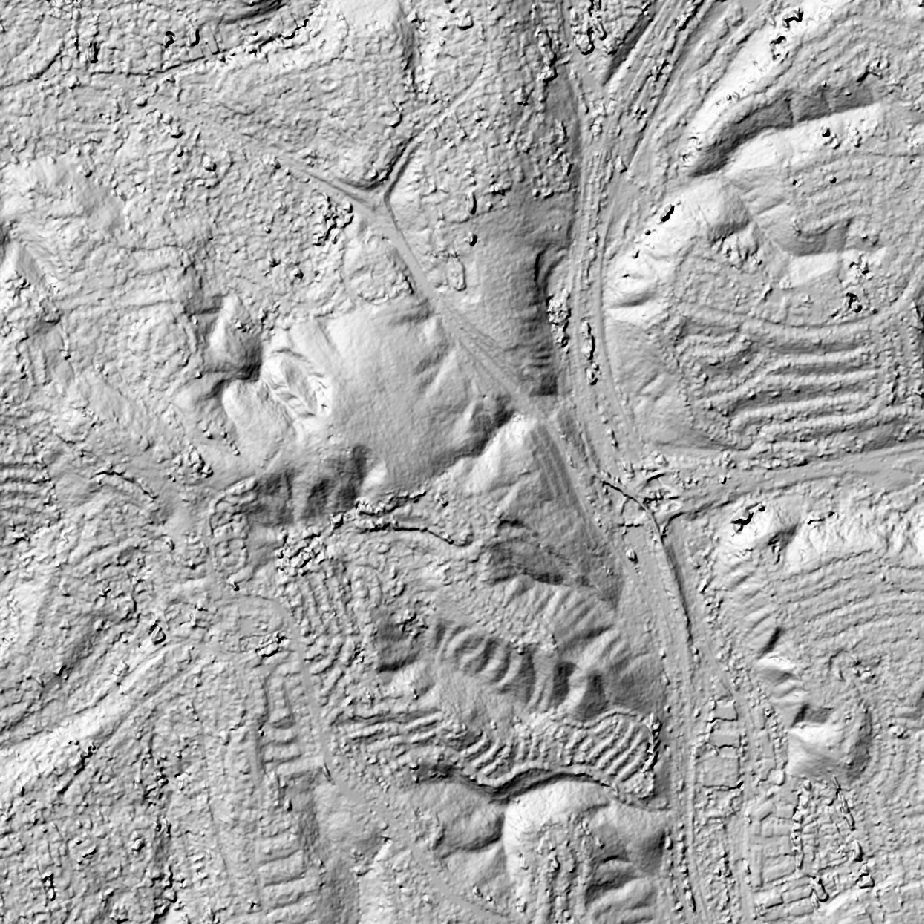
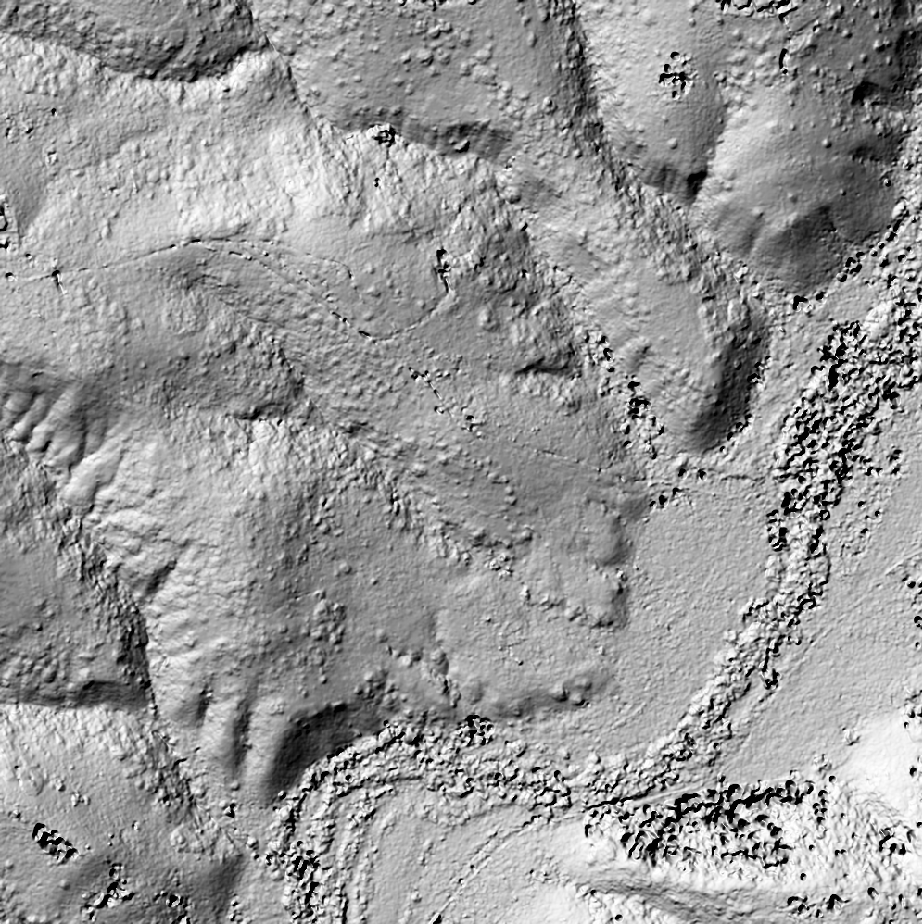
Notebook text pass, CARS redone on the square, sized screenshots
The notebooks' text edited by hand: shorter openings, "Orthorectify" for
"Drape", the report link as a ### heading without the download sentence,
the zip contents as a list, the Run All screenshot inside the opening
note, the clipboard screenshot as a sized <img> tag. The scratchpad
builders that wrote the WorldView notebooks are superseded by these
hand edits. execute_tutorials.py turns a sized <img> tag back into a
markdown image in the executed copies, since Sphinx copies only the
images it sees in markdown (checked with a local docs build).

The CARS comparison is redone on the tutorial's square at 1 m:
run_comparisons.sh now cuts the square plus 250 m out of each scene
with cam2rpc at the images' own resolution (the tutorial no longer
crops), setsm_inputs.py's averaging factor is 1, CARS writes 1 m. CARS
agrees with ASP to 0.2 m NMAD with no height offset, since neither
adjusts the cameras now. The SETSM page and figure follow separately:
its first run at 1 m produced noise and is being looked at.

Claude-Session: https://claude.ai/code/session_011KC3JwzmbqUXJMF6UJmWQX

diff --git a/scripts/docs_figures/setsm_inputs.py b/scripts/docs_figures/setsm_inputs.py
@@ -1,4 +1,4 @@
-"""Make a folder SETSM can run on from Tutorial 2's cropped images.
+"""Make a folder SETSM can run on from the comparison's cropped images.
 
     python scripts/docs_figures/setsm_inputs.py <wv run> <output folder>
 
@@ -12,7 +12,8 @@ takes the image corners from the <BAND_P> block to pick the UTM zone (without
 them it chose zone 31 south), the pixel size and satellite ID from <IMAGE>,
 and the RPC error terms, which cam2rpc writes as 0. This adds those blocks:
 the corners from the crop's own RPC, the pixel sizes from the vendor's XML
-times the crop's averaging factor, and the rest copied from the vendor's XML.
+(times FACTOR, the crop's averaging factor, 1 now), and the rest copied from
+the vendor's XML.
 """
 import re
 import shutil
@@ -24,7 +25,7 @@ from osgeo import gdal
 gdal.UseExceptions()
 
 SCENES = ["104001000496A100", "10400100071D8800"]
-FACTOR = 4   # the crops average FACTOR x FACTOR pixels (Tutorial 2's FACTOR)
+FACTOR = 1   # the crops are at the images' own resolution (cam2rpc in run_comparisons.sh)
 IMAGE_TAGS = ["SATID", "FIRSTLINETIME", "ABSCALFACTOR", "EFFECTIVEBANDWIDTH", "TDILEVEL",
               "MEANPRODUCTGSD", "MEANPRODUCTROWGSD", "MEANPRODUCTCOLGSD",
               "MEANCOLLECTEDGSD", "MEANCOLLECTEDROWGSD", "MEANCOLLECTEDCOLGSD",

diff --git a/scripts/execute_tutorials.py b/scripts/execute_tutorials.py
@@ -13,6 +13,7 @@ a conda env, the env's bin folder goes before ASP's (both have asp_report)
 and PROJ_DATA and GDAL_DATA point at the env's share/ folders. About 25
 minutes on an 8-core laptop for all three.
 """
+import re
 import shutil
 import sys
 import time
@@ -38,8 +39,11 @@ def main():
         # Screenshots in markdown cells are referenced relative to notebooks/
         # (../docs/start/figures/); from docs/tutorials/ the same files are at
         # ../start/figures/.
+        # A sized <img> tag (width for VS Code) becomes a markdown image: Sphinx
+        # copies only the images it sees in markdown.
         for cell in nb.cells:
             if cell.cell_type == "markdown":
+                cell.source = re.sub(r'<img src="([^"]+)" alt="([^"]*)"[^>]*>', r"![\2](\1)", cell.source)
                 cell.source = cell.source.replace("../docs/start/figures/", "../start/figures/")
         nbformat.write(nb, out / f"{name}.ipynb")
         print(f"{name}: {(time.time() - start) / 60:.1f} min, {(out / f'{name}.ipynb').stat().st_size / 1e6:.1f} MB")

diff --git a/scripts/docs_figures/make_figures.py b/scripts/docs_figures/make_figures.py
@@ -320,7 +320,7 @@ COMPARISON_DEMS = {
 
 
 def comparison_hillshades(wv, extra, out):
-    """A bare hillshade of each tool's DEM over Tutorial 2's window, on Tutorial 2's 2.4 m grid."""
+    """A bare hillshade of each tool's DEM over Tutorial 2's square, on Tutorial 2's 1 m grid."""
     like = wv / COMPARISON_DEMS["asp"]
     for tool, rel in COMPARISON_DEMS.items():
         dem = like if tool == "asp" else extra / rel

diff --git a/docs/comparisons/cars.md b/docs/comparisons/cars.md
@@ -1,4 +1,4 @@
-# CARS — WorldView-3, Mount Soledad
+# CARS — WorldView-3, Los Peñasquitos Canyon
 
 Compare DEMs produced by ASP and CARS on the same WorldView-3 stereo pair:
 
@@ -17,18 +17,18 @@ CARS is an open-source Python tool developed by CNES (French Space Agency) for p
 
 ## Source Data
 
-The same WorldView-3 pair as the [SETSM comparison](setsm) and [Tutorial 2](../tutorials/02_worldview_ucsd.ipynb), as the tutorial prepares it: a 3 × 3 km window around the summit of Mount Soledad, cut from each image with `cam2rpc` and averaged to 1.2 m pixels (the native 0.31 m pixels, 4 × 4 at a time). Both images come from the IARPA CORE3D SpaceNet UCSD dataset.
+The same WorldView-3 pair as the [SETSM comparison](setsm) and [Tutorial 2](../tutorials/02_worldview_ucsd.ipynb), over the tutorial's 1 km square at the west end of Los Peñasquitos Canyon. The tutorial orthorectifies the square straight out of the full scenes, which CARS and SETSM don't do, so `scripts/docs_figures/run_comparisons.sh` first cuts the square plus a 250 m margin out of each scene with `cam2rpc`, at the images' own 0.31 m pixels, with an RPC camera fitted to each crop. Both images come from the IARPA CORE3D SpaceNet UCSD dataset.
 
 | Catalog ID | Date | Off-nadir | Crop size |
 |---|---|---|---|
-| 104001000496A100 | 2014-11-09 | 1.1° | 2738 × 2805 px |
-| 10400100071D8800 | 2015-01-24 | 16.3° | 2623 × 2645 px |
+| 104001000496A100 | 2014-11-09 | 1.1° | 4764 × 4888 px |
+| 10400100071D8800 | 2015-01-24 | 16.3° | 4552 × 4681 px |
 
-The pair's convergence angle is 16.8°. Each tool gets the same two crops and their RPC cameras, and writes a 2.4 m DEM, the tutorial's output grid. ASP's DEM is the tutorial's own, made from the orthorectified crops after bundle adjustment, as the notebook describes.
+The pair's convergence angle is 16.8°. Each tool gets the same two crops and their RPC cameras, and writes a 1 m DEM, the tutorial's output grid. ASP's DEM is the tutorial's own, made from the orthorectified square with the vendor cameras as they are, as the notebook describes.
 
 ## Inputs
 
-CARS reads the RPC from the crops' GeoTIFF tags (through [Shareloc](https://github.com/CNES/shareloc)), so the tutorial's crops go in as they are, with no camera file. The crops already cover the window, so the config gives no region of interest. (CARS 1.3.0 fails with `unsupported operand type(s) for /: 'list' and 'float'` when `roi` is set together with a single `resolution`; it keeps the resolution as a pair internally.)
+CARS reads the RPC from the crops' GeoTIFF tags (through [Shareloc](https://github.com/CNES/shareloc)), so the crops go in as they are, with no camera file. The crops already cover the square, so the config gives no region of interest. (CARS 1.3.0 fails with `unsupported operand type(s) for /: 'list' and 'float'` when `roi` is set together with a single `resolution`; it keeps the resolution as a pair internally.)
 
 ## Running CARS via Docker
 
@@ -54,7 +54,7 @@ input:
 
 output:
   directory: /output/results
-  resolution: 2.4
+  resolution: 1
   epsg: 32611
   geoid: false
 
@@ -65,7 +65,7 @@ orchestrator:
 ```
 
 Key parameters:
-- `output.resolution: 2.4` — the tutorial's DEM grid
+- `output.resolution: 1` — the tutorial's DEM grid
 - `output.epsg: 32611` — UTM 11N, the tutorial's CRS
 - `output.geoid: false` — heights above the ellipsoid, as ASP writes them (CARS's default is the EGM96 geoid)
 - `orchestrator.nb_workers: 4`, `max_ram_per_worker: 2000` — four workers of 2 GB, for a 16 GB laptop whose Docker VM has 12 GB
@@ -87,28 +87,28 @@ Expected outputs in `results/`:
 
 | Metric | Value |
 |---|---|
-| Computation time | 7 min 38 s (Apple M-series laptop, amd64 emulation, 6 CPUs) |
+| Computation time | 17 min 6 s (Apple M-series laptop, amd64 emulation, 6 CPUs) |
 | Docker `--memory` limit | 11 GB |
-| Output DSM | 1410 × 1447 px (the crops' overlap), 2.4 m, EPSG:32611 |
+| Output DSM | 1471 × 1511 px (the crops' overlap), 1 m, EPSG:32611 |
 | Convergence angle | 16.8° |
 
-Two of the 68 rasterization tiles failed on CARS's second pass over them (`ERROR Pipeline will pursue without failed tiles` in the log); the DSM over the 3 km window is complete. The DSM's extreme values (down to −377 m) are blunders at the edge of the overlap, outside the window.
+Two tiles failed on CARS's second pass over them (`ERROR Pipeline will pursue without failed tiles` in the log); the DSM over the square is complete. The DSM's extreme values (down to −146 m) are blunders at the edge of the overlap, outside the square.
 
 ## Hillshade Comparison
 
-CARS resolves the same hills, canyons, streets and blocks of houses as ASP, with sharper building edges, and fills the window with no voids where ASP has a few (0.8%, mostly at the freeway interchange and along building edges). Its surface is noisier in open ground, which shows as speckle in the hillshade, with some pits and mounds along building edges. Like SETSM, CARS uses the vendor RPCs as they are, so its DSM sits 9.5 m below ASP's (median difference); Tutorial 2's bundle adjustment ties the cameras to COP30 heights. Apart from that offset the two agree to 1.1 m (NMAD).
+CARS resolves the same spurs, gullies and trails as ASP, and fills the square with no voids where ASP has a few (0.9%, in the trees along the creek and in deep shadows); in those trees CARS's surface is lumpier. Elsewhere its surface is a little noisier pixel to pixel, which shows as a fine speckle in the hillshade. Both tools use the vendor RPCs as they are, so the two DEMs sit at the same height (median difference 0.0 m) and agree to 0.2 m (NMAD) over the square; both sit about 10 m below ICESat-2, which Tutorial 2's report measures and removes.
 
 ::::{grid} 2
 :::{grid-item}
-![ASP 2.4 m](figures/soledad-asp-hillshade.png)
-**ASP 2.4 m DEM**
+![ASP 1 m](figures/soledad-asp-hillshade.png)
+**ASP 1 m DEM**
 <div class="fullres-btns">
   <a class="fullres-btn" href="../_images/soledad-asp-hillshade.png" target="_blank" rel="noopener noreferrer">Open at full resolution ↗</a>
 </div>
 :::
 :::{grid-item}
-![CARS 2.4 m](figures/soledad-cars-hillshade.png)
-**CARS 2.4 m DSM**
+![CARS 1 m](figures/soledad-cars-hillshade.png)
+**CARS 1 m DSM**
 <div class="fullres-btns">
   <a class="fullres-btn" href="../_images/soledad-cars-hillshade.png" target="_blank" rel="noopener noreferrer">Open at full resolution ↗</a>
 </div>
@@ -116,7 +116,7 @@ CARS resolves the same hills, canyons, streets and blocks of houses as ASP, with
 ::::
 
 ```{raw} html
-<a href="https://maps.google.com/?ll=32.8396,-117.2413&z=15&t=k" target="_blank" rel="noopener noreferrer">View the comparison area in Google Maps</a>
+<a href="https://maps.google.com/?ll=32.918,-117.204&z=15&t=k" target="_blank" rel="noopener noreferrer">View the comparison area in Google Maps</a>
 ```
 
 ## References

diff --git a/ARCHITECTURE.md b/ARCHITECTURE.md
@@ -103,7 +103,7 @@ Glossary linking is in [ADR-0019](architecture/0019-glossary-term-hover-previews
 
 ### `docs/comparisons/` section
 
-See [ADR-0009](architecture/0009-qualitative-tool-comparisons.md). A top-level section running Tutorial 2's WorldView-3 pair, as the tutorial crops it (Mount Soledad, 1.2 m crops, 2.4 m DEMs), through ASP, CARS (CNES), and SETSM (OSU/PGC), side by side and qualitative (no quantitative ranking). Remade on 2026-10-29 from the old `21deg_12d` pair with `scripts/docs_figures/run_comparisons.sh`. Unlike the concept pages these ship fully-fleshed, not WIP: `index.md` carries an overview, a scope-disclaimer note, a "Key Differences" table, and a hidden toctree over `setsm`, `cars`; `cars.md` / `setsm.md` carry full Docker recipes, config, run-metrics tables, and 2-up hillshade grids (`figures/soledad-*-hillshade.png`, committed). `docs/index.md` adds a landing card and a "Comparisons" toctree section; `docs/conf.py` needs no change (`nb_execution_mode = "off"` is global).
+See [ADR-0009](architecture/0009-qualitative-tool-comparisons.md). A top-level section running Tutorial 2's WorldView-3 pair, over the tutorial's square (Los Peñasquitos Canyon; `cam2rpc` crops at the images' own resolution, since the tutorial itself no longer crops; 1 m DEMs), through ASP, CARS (CNES), and SETSM (OSU/PGC), side by side and qualitative (no quantitative ranking). Remade on 2026-10-30 on the square with `scripts/docs_figures/run_comparisons.sh`. Unlike the concept pages these ship fully-fleshed, not WIP: `index.md` carries an overview, a scope-disclaimer note, a "Key Differences" table, and a hidden toctree over `setsm`, `cars`; `cars.md` / `setsm.md` carry full Docker recipes, config, run-metrics tables, and 2-up hillshade grids (`figures/soledad-*-hillshade.png`, committed). `docs/index.md` adds a landing card and a "Comparisons" toctree section; `docs/conf.py` needs no change (`nb_execution_mode = "off"` is global).
 
 ### "Orthorectification" (concept) vs "mapproject" (ASP tool)
 

diff --git a/architecture/0034-beginner-notebook-prose.md b/architecture/0034-beginner-notebook-prose.md
@@ -11,7 +11,7 @@ The notebooks had grown prose for an informed reader: how the download scripts w
 - **Each step's text says what happens and why, in two or three sentences,** in plain words, with the ASP tool named once. Nothing about the Codespace setup, the download scripts, the helper functions, or processing parameters: the code cell has the parameters, and the docs explain the method.
 - **One link per step to the docs site,** to the page that explains the method (`concepts/…`), as a plain markdown link. VS Code in the browser opens web links in a new tab, and the docs site opens external links in a new tab, so no `target="_blank"` is needed.
 - **A caption under every figure,** as a markdown cell after the figure's code cell, written for someone who has not seen such a figure before. `show_report_figures()` prints its captions below the figures for the same reason.
-- **The report link is a heading** (`## 📄 Open the report (PDF)`), so it can't be missed, with the download instruction under it.
+- **The report link is a heading** (`## 📄 Open the report (PDF)`), so it can't be missed, with the download instruction under it. *(Amended 2026-10-30: a `###` heading, and the sentence under it about downloading the PDF is gone; the "How to download it" cell at the end covers downloading.)*
 - **A timing line per step,** as a short quote (`> About a minute.`), for a 4-core Codespace.
 - **Larger text in the Codespace:** `notebook.markup.fontSize` 17 and `notebook.output.fontSize` 15 in `devcontainer.json`, since the notebooks are read more than edited there. Settings rather than CSS in cells: VS Code's notebook renderer doesn't take styles from markdown cells, and a setting applies to every notebook.
 

diff --git a/docs/comparisons/index.md b/docs/comparisons/index.md
@@ -1,6 +1,6 @@
 # Alternative Open-Source Stereo Pipelines
 
-Comparisons of ASP with other widely used open-source stereo photogrammetry pipelines, on the WorldView-3 pair of [Tutorial 2](../tutorials/02_worldview_ucsd.ipynb) (Mount Soledad, San Diego), prepared as the tutorial prepares it.
+Comparisons of ASP with other widely used open-source stereo photogrammetry pipelines, on the WorldView-3 pair of [Tutorial 2](../tutorials/02_worldview_ucsd.ipynb), over its 1 km square in Los Peñasquitos Canyon, San Diego.
 
 ```{note}
 This is not a comprehensive comparison of processing parameters between ASP, CARS, and SETSM. We make no quantitative ranking between DEM outputs.
